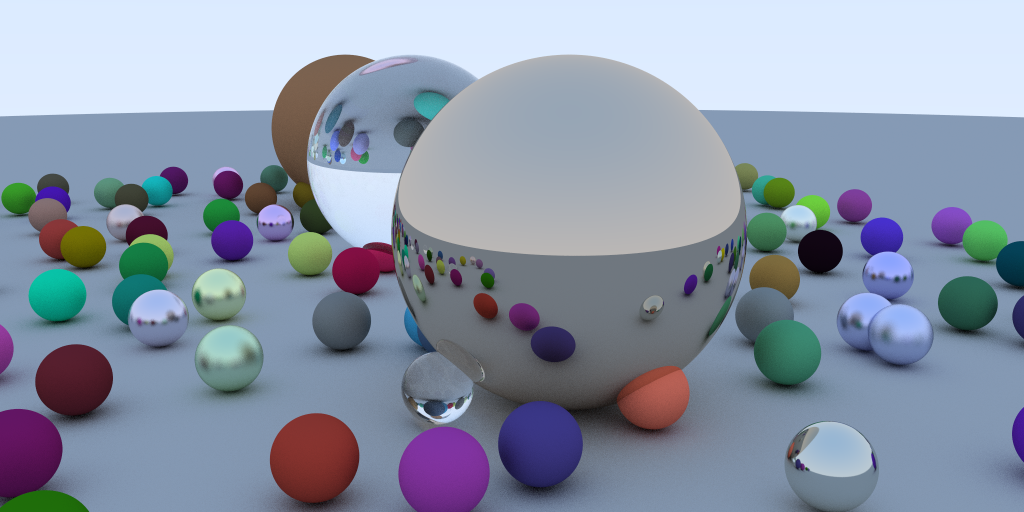
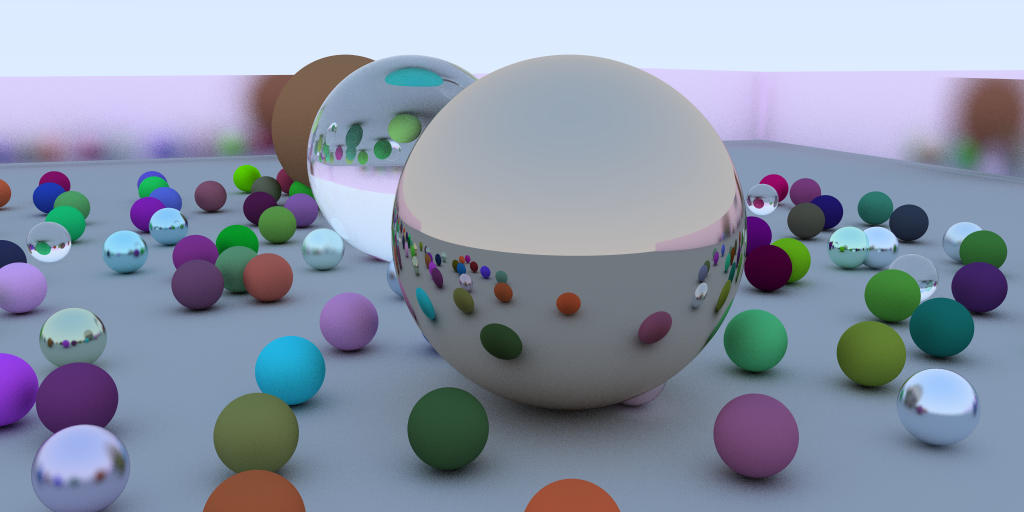
Update README

diff --git a/README.md b/README.md
@@ -2,13 +2,13 @@
 
 `raytracer_in_a_weekend` is my attempt at making a ray-tracer while following along the excellent _Ray Tracing in One Weekend_ guide. It also served as a good mini-project to brush up my Rust skills.
 
-The provided demo (in [main.rs](src/main.rs)) renders a randomly generated scene. The scene consists of a collection of spheres with one of 3 types of materials:
+The provided demo (in [main.rs](src/main.rs)) renders a randomly generated scene. The scene consists of 2 planes + a collection of spheres with one of 3 types of materials:
 
 - Lambertian (matte)
 - Metal
 - Dielectric (glass)
 
-While the raytracer in _Ray Tracing in One Weekend_ is single-threaded, I've used `rayon` for multi-threading.
+While the raytracer in _Ray Tracing in One Weekend_ is single-threaded, I've used `rayon` for multi-threading. I've also added support for planes.
 
 ## Running
 
